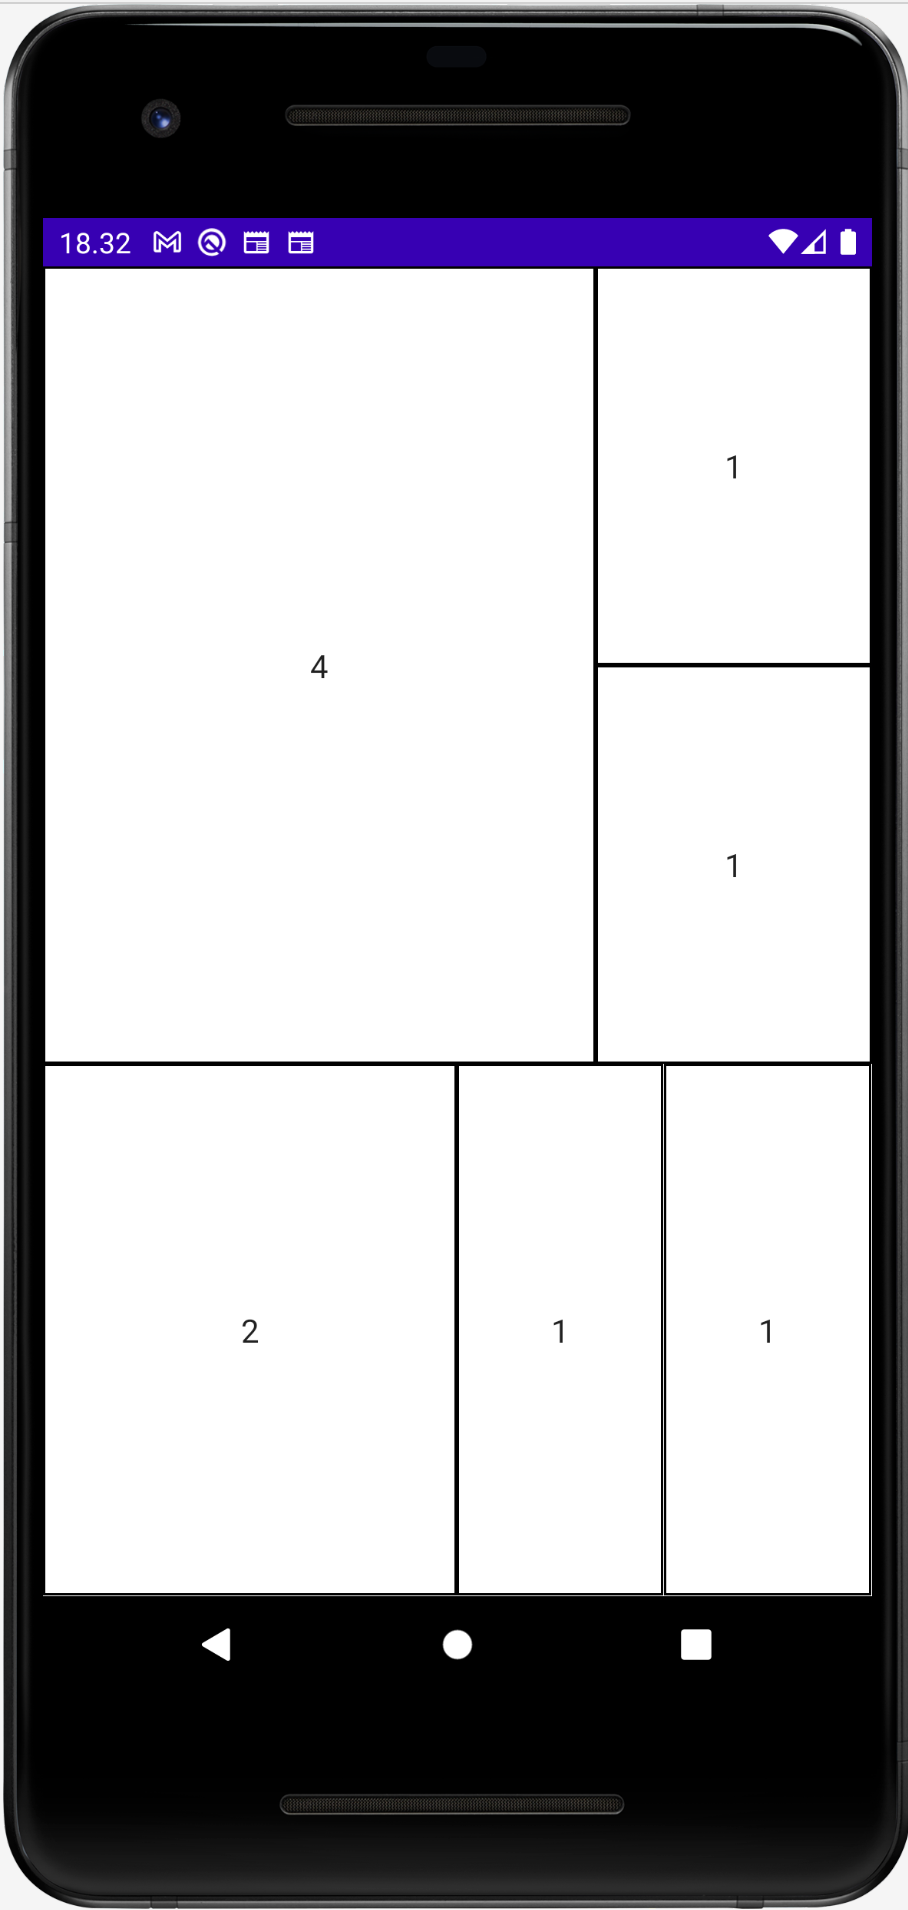
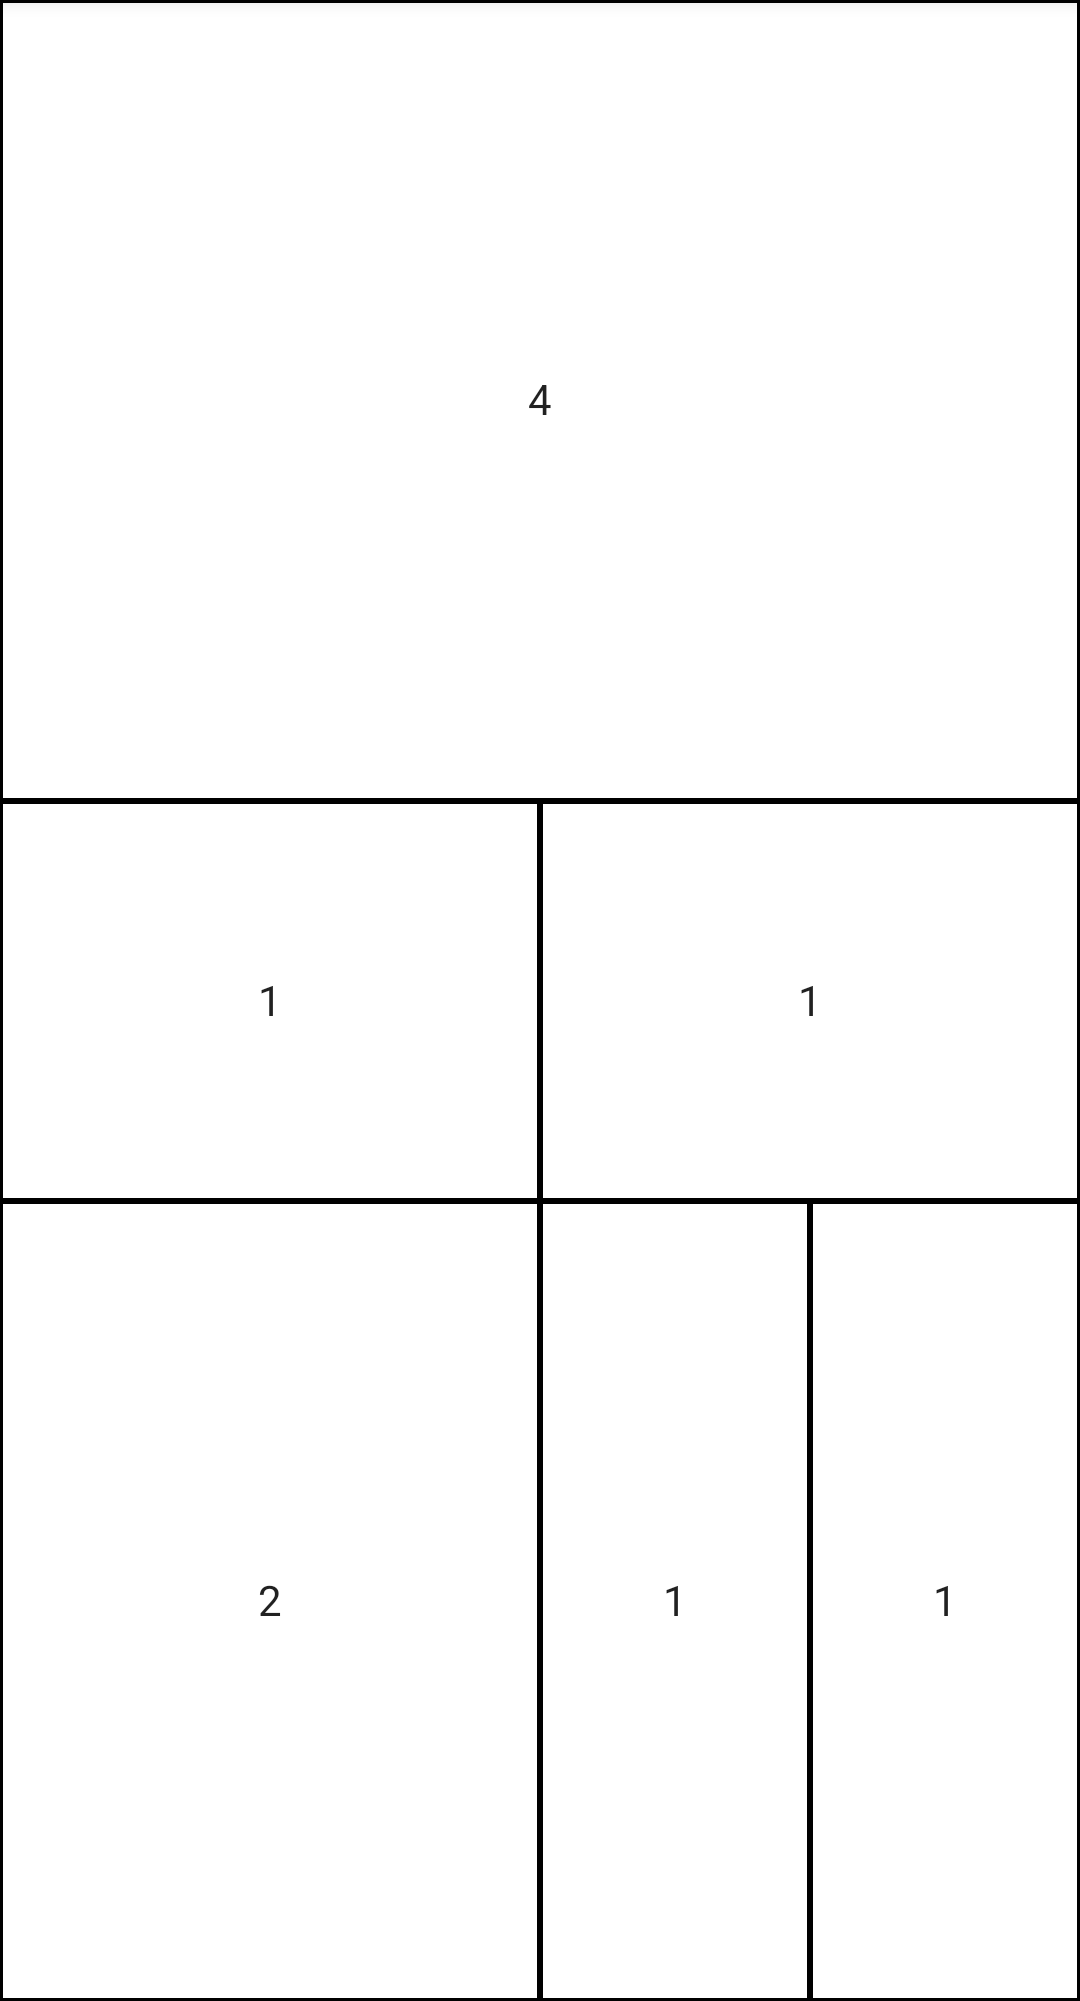
Update README sample images
Replace the screenshots that show gaps between the item borders with new
ones taken from the current sample app, without the phone frame.

diff --git a/README.md b/README.md
@@ -58,7 +58,7 @@ fun SimpleTreemapItem(
 ```
 The code above produces something like this:
 
-<img src="https://raw.githubusercontent.com/overpas/compose-treemap-chart/master/img/sample_treemap.png" width="750">
+<img src="https://raw.githubusercontent.com/overpas/compose-treemap-chart/master/img/sample_treemap.png" width="500">
 
 The `treemap-chart` artifact alone has no Compose dependency. It gives the `tree {}` model and the
 layout algorithms (`SquarifiedMeasurer`, `SliceAndDiceMeasurer`) for other UI toolkits.
